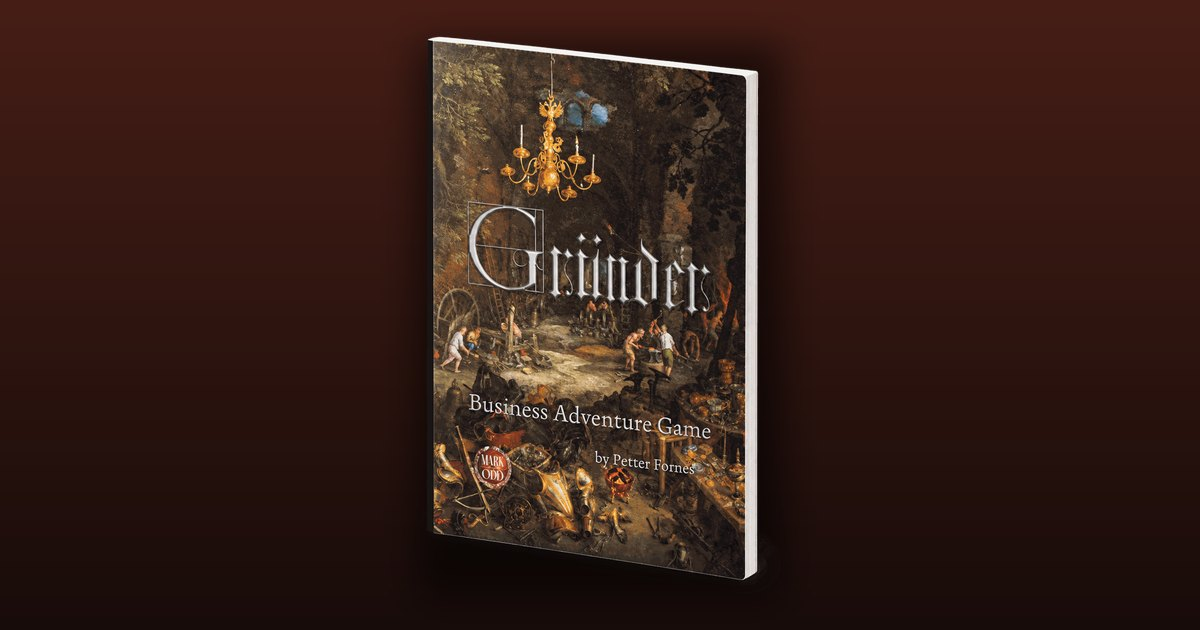
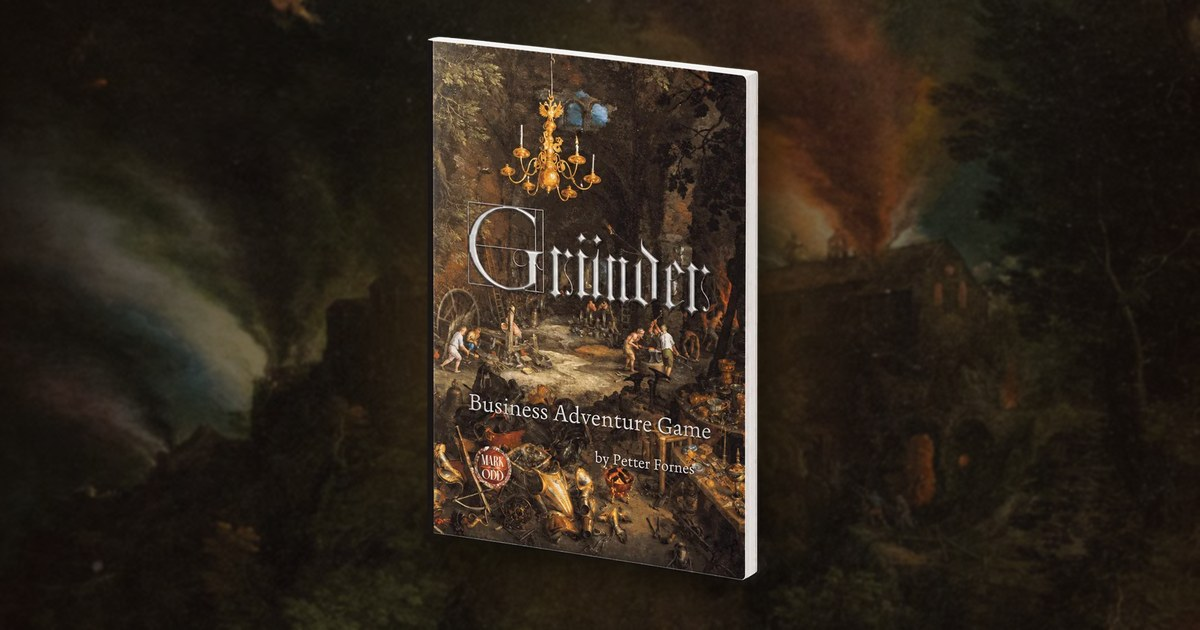
Series pages: look-inside pages from the books, Thornwall hex map section, engraving band, cleaner WM hero stack; new Gründer share image; centered homepage cards; Thornwall barcode
Claude-Session: https://claude.ai/code/session_01Go6ret7jCLgDqqds4EMTee

diff --git a/hexcrawl.html b/hexcrawl.html
@@ -92,6 +92,15 @@ p+p{margin-top:14px}
 .lead{font-size:20px}
 .split{display:grid;grid-template-columns:1.15fr .85fr;gap:56px;align-items:center}
 @media(max-width:860px){.split{grid-template-columns:1fr;gap:28px}}
+.pages{display:grid;grid-template-columns:repeat(var(--n,5),1fr);gap:18px;margin-top:32px;align-items:end}
+.pages figure{margin:0}
+.pages img{width:100%;height:auto;display:block;border-radius:3px;box-shadow:0 18px 34px rgba(0,0,0,.55);background:#fff}
+.pages figure:nth-child(odd) img{transform:rotate(-1.5deg)}
+.pages figure:nth-child(even) img{transform:rotate(1.2deg) translateY(-10px)}
+.pages figcaption{font-family:var(--sys);font-size:13px;color:var(--muted);text-align:center;margin-top:12px}
+@media(max-width:860px){.pages{grid-template-columns:repeat(3,1fr)}.pages figure:nth-child(n+4){display:none}}
+@media(max-width:520px){.pages{grid-template-columns:repeat(2,1fr)}.pages figure:nth-child(n+3){display:none}}
+.engrave{background:linear-gradient(180deg,rgba(14,20,17,.88),rgba(14,20,17,.94)),var(--bandimg) center/cover no-repeat}
 .split figure img{width:100%;max-width:380px;margin:0 auto;filter:drop-shadow(0 24px 34px rgba(0,0,0,.55))}
 .cards{display:grid;grid-template-columns:repeat(var(--cols,3),1fr);gap:20px;margin-top:34px}
 @media(max-width:960px){.cards{grid-template-columns:repeat(2,1fr)}}
@@ -147,6 +156,9 @@ footer a:hover{text-decoration:underline}
 .hexmap .hx.soon{background:#0f1a20}
 .hexmap .hx.soon b{color:var(--muted)}
 @media(max-width:560px){.hexmap{grid-template-columns:repeat(2,1fr);max-width:340px;gap:12px}.hexmap .hx:nth-child(n){transform:none}.hexmap .hx:nth-child(even){transform:translateY(40%)}.hexmap{margin-bottom:40px}}
+.mapcard{background:#fff;border-radius:8px;padding:18px 18px 12px;box-shadow:0 24px 44px rgba(0,0,0,.55);margin:0}
+.mapcard img{width:100%;height:auto;display:block;filter:none!important;max-width:none!important}
+.mapcard figcaption{font-family:var(--sys);font-size:12px;color:#5d5a52;text-align:center;margin-top:8px}
 .team{display:grid;grid-template-columns:repeat(4,1fr);gap:14px;margin-top:26px}
 @media(max-width:760px){.team{grid-template-columns:repeat(2,1fr)}}
 .team div{border-top:2px solid var(--acc);padding-top:12px}
@@ -166,7 +178,7 @@ footer a:hover{text-decoration:underline}
 <body>
 <nav><div class="in">
   <a class="logo" href="/"><img src="/img/ashborn/kr1hex.svg" alt="" width="30" height="34">KR1 PUBLISHING</a>
-  <ul><li><a href="#map">The series</a></li><li><a href="#method">The method</a></li><li><a href="#books">The books</a></li><li><a href="#faq">Questions</a></li></ul>
+  <ul><li><a href="#map">The series</a></li><li><a href="#method">The method</a></li><li><a href="#thornwall">Thornwall</a></li><li><a href="#books">The books</a></li></ul>
   <a class="btn sm" href="https://www.drivethrurpg.com/en/product/562366?affiliate_id=927841&src=site_hexcrawl" target="_blank" rel="noopener">Start with book one</a>
 </div></nav>
 
@@ -224,8 +236,25 @@ footer a:hover{text-decoration:underline}
       <div><b>Nicolai Str&oslash;m</b><span>Cover art</span></div>
     </div>
   </div>
-  <figure><img src="/img/series/hexcrawl-worldbuilding.webp" alt="Hexcrawl Worldbuilding Design Guidebook, softcover" width="487" height="760" loading="lazy"></figure>
+  <figure><img src="/img/series/inside/hc-cape.webp" alt="Line art of the cloaked wanderer from the Campaign Style Guidebook" width="520" height="780" loading="lazy" style="border-radius:4px;max-width:340px"></figure>
 </div></div></section>
+
+<section id="thornwall"><div class="in"><div class="split">
+  <div>
+    <div class="kicker">Book four</div>
+    <h2>Thirty hexes, <em>ready for Friday</em></h2>
+    <p class="lead">The Thornwall Frontier puts the series method on the table as one finished region. Thornwall sits on the edge of a frontier that is starting to pay, and something under the ground does not want to be dug up.</p>
+    <p>Each hex is six miles across, so the region runs about 40 miles east to west. A party crosses open ground in about three days, and the forests and hills take closer to five. The hexes sit in three zones: the Settled Ring around town, the Frontier, and the Deep at the edges.</p>
+    <p>Three factions pull at the region. The Miners&rsquo; Guild wants to dig deeper, the Grey Wardens want to keep people out, and the Bone Cult works out of sight. The party learns about the Cult last.</p>
+    <div class="cta-row" style="margin-top:24px"><a class="btn" href="https://www.drivethrurpg.com/en/product/584427?affiliate_id=927841&src=site_hexcrawl" target="_blank" rel="noopener">Get Thornwall</a></div>
+  </div>
+  <figure class="mapcard"><img src="/img/series/inside/thornwall-map.webp" alt="The GM's keyed hex map of the Thornwall Frontier, 30 hexes" width="1201" height="1287" loading="lazy"><figcaption>The GM&rsquo;s keyed hex map, page 5 of the book</figcaption></figure>
+</div></div></section>
+
+<section class="band" id="pages"><div class="in">
+  <div class="center"><div class="kicker">Look inside</div><h2>Art, maps <em>and pages you can run from</em></h2></div>
+  <div class="pages" style="--n:4"><figure><img src="/img/series/inside/he-forest.webp" alt="Forest illustration from the Encounter Design Guidebook" width="520" height="785" loading="lazy"><figcaption>Encounter Design: the forest</figcaption></figure><figure><img src="/img/series/inside/tw-town.webp" alt="The Thornwall town layout" width="520" height="785" loading="lazy"><figcaption>Thornwall Frontier: the home base</figcaption></figure><figure><img src="/img/series/inside/tw-stones.webp" alt="Hex 04, Fog Hollow, with standing stones" width="520" height="785" loading="lazy"><figcaption>Thornwall Frontier: Hex 04</figcaption></figure><figure><img src="/img/series/inside/tw-dungeon.webp" alt="The Bone Cult Excavation dungeon map" width="520" height="785" loading="lazy"><figcaption>Thornwall Frontier: the Bone Cult Excavation</figcaption></figure></div>
+</div></section>
 
 <section id="books"><div class="in">
   <div class="center"><div class="kicker">The books</div><h2>What is <em>in each one</em></h2></div>
@@ -242,7 +271,7 @@ footer a:hover{text-decoration:underline}
 </div></section>
 <section id="more"><div class="in">
   <div class="center"><div class="kicker">More from KR1</div><h2>Other books on the same shelf</h2></div>
-  <div class="more"><a href="/westmarches"><img src="/img/series/og-westmarches.jpg?v=2" alt="" loading="lazy" width="1200" height="630"><span>West Marches<small>Open table campaigns</small></span></a><a href="/grunder"><img src="/img/series/og-grunder.jpg" alt="" loading="lazy" width="1200" height="630"><span>Gr&uuml;nder<small>A one-shot OSR adventure</small></span></a><a href="/ashborn"><img src="/img/ashborn/og-ashborn.jpg" alt="" loading="lazy" width="1200" height="630"><span>Ashborn<small>Coming to BackerKit 2027</small></span></a></div>
+  <div class="more"><a href="/westmarches"><img src="/img/series/og-westmarches.jpg?v=2" alt="" loading="lazy" width="1200" height="630"><span>West Marches<small>Open table campaigns</small></span></a><a href="/grunder"><img src="/img/series/og-grunder.jpg?v=2" alt="" loading="lazy" width="1200" height="630"><span>Gr&uuml;nder<small>A one-shot OSR adventure</small></span></a><a href="/ashborn"><img src="/img/ashborn/og-ashborn.jpg" alt="" loading="lazy" width="1200" height="630"><span>Ashborn<small>Coming to BackerKit 2027</small></span></a></div>
 </div></section>
 <footer><div class="in">
   <div class="cred">Written by Matthijs Holter &middot; Edited by Karl Otto Kristoffersen &middot; Layout by Michael Sollien &middot; Cover art by Nicolai Str&oslash;m &middot; Published by KR1 Publishing</div>

diff --git a/westmarches.html b/westmarches.html
@@ -92,6 +92,15 @@ p+p{margin-top:14px}
 .lead{font-size:20px}
 .split{display:grid;grid-template-columns:1.15fr .85fr;gap:56px;align-items:center}
 @media(max-width:860px){.split{grid-template-columns:1fr;gap:28px}}
+.pages{display:grid;grid-template-columns:repeat(var(--n,5),1fr);gap:18px;margin-top:32px;align-items:end}
+.pages figure{margin:0}
+.pages img{width:100%;height:auto;display:block;border-radius:3px;box-shadow:0 18px 34px rgba(0,0,0,.55);background:#fff}
+.pages figure:nth-child(odd) img{transform:rotate(-1.5deg)}
+.pages figure:nth-child(even) img{transform:rotate(1.2deg) translateY(-10px)}
+.pages figcaption{font-family:var(--sys);font-size:13px;color:var(--muted);text-align:center;margin-top:12px}
+@media(max-width:860px){.pages{grid-template-columns:repeat(3,1fr)}.pages figure:nth-child(n+4){display:none}}
+@media(max-width:520px){.pages{grid-template-columns:repeat(2,1fr)}.pages figure:nth-child(n+3){display:none}}
+.engrave{background:linear-gradient(180deg,rgba(14,20,17,.88),rgba(14,20,17,.94)),var(--bandimg) center/cover no-repeat}
 .split figure img{width:100%;max-width:380px;margin:0 auto;filter:drop-shadow(0 24px 34px rgba(0,0,0,.55))}
 .cards{display:grid;grid-template-columns:repeat(var(--cols,3),1fr);gap:20px;margin-top:34px}
 @media(max-width:960px){.cards{grid-template-columns:repeat(2,1fr)}}
@@ -132,11 +141,12 @@ footer a{color:var(--acc);text-decoration:none;margin:0 10px;display:inline-bloc
 footer a:hover{text-decoration:underline}
 
 
-.fan img:nth-child(1){left:40%;width:34%;transform:rotate(-2deg);bottom:10px;z-index:1}
-.fan img:nth-child(2){left:53%;width:34%;transform:rotate(3deg);bottom:4px;z-index:2}
-.fan img:nth-child(3){left:66%;width:34%;transform:rotate(8deg);bottom:-4px;z-index:3}
-.fan img:nth-child(4){left:0;width:44%;transform:rotate(-5deg);bottom:40px;z-index:4;filter:drop-shadow(0 30px 40px rgba(0,0,0,.75))}
-@media(max-width:480px){.fan img:nth-child(4){bottom:14px}}
+.fan img{width:36%}
+.fan img:nth-child(1){left:26%;bottom:6px;z-index:1}
+.fan img:nth-child(2){left:42%;bottom:3px;z-index:2}
+.fan img:nth-child(3){left:58%;bottom:0;z-index:3}
+.fan img:nth-child(4){left:4%;bottom:30px;z-index:4;filter:drop-shadow(0 30px 40px rgba(0,0,0,.75))}
+@media(max-width:480px){.fan img:nth-child(4){bottom:16px}}
 .board{background:#efe6cf;color:#2b2416;border-radius:6px;padding:26px 26px 20px;box-shadow:0 22px 44px rgba(0,0,0,.55);transform:rotate(-1.2deg);font-family:var(--serif)}
 .board h3{font-family:var(--disp);font-size:15px;letter-spacing:.12em;text-transform:uppercase;border-bottom:2px solid #2b2416;padding-bottom:8px;margin-bottom:12px}
 .board ol{margin-left:22px;font-size:16.5px;line-height:1.5}
@@ -158,7 +168,7 @@ footer a:hover{text-decoration:underline}
 <body>
 <nav><div class="in">
   <a class="logo" href="/"><img src="/img/ashborn/kr1hex.svg" alt="" width="30" height="34">KR1 PUBLISHING</a>
-  <ul><li><a href="#what">The playstyle</a></li><li><a href="#night">How a night runs</a></li><li><a href="#books">The four books</a></li><li><a href="#faq">Questions</a></li></ul>
+  <ul><li><a href="#what">The playstyle</a></li><li><a href="#night">How a night runs</a></li><li><a href="#inside">Look inside</a></li><li><a href="#books">The four books</a></li></ul>
   <a class="btn sm" href="https://www.drivethrurpg.com/en/product/522853?affiliate_id=927841&src=site_westmarches" target="_blank" rel="noopener">Get the Guidebook</a>
 </div></nav>
 
@@ -203,7 +213,7 @@ footer a:hover{text-decoration:underline}
   <figure><img src="/img/series/wm-guidebook.webp" alt="West Marches Campaign Playstyle Guidebook, softcover" width="520" height="760" loading="lazy"></figure>
 </div></div></section>
 
-<section class="band" id="night"><div class="in"><div class="split">
+<section class="band engrave" id="night" style="--bandimg:url(/img/series/inside/wm-crowd-band.webp)"><div class="in"><div class="split">
   <div>
     <div class="kicker">How a night runs</div>
     <h2>How a session <em>usually runs</em></h2>
@@ -225,6 +235,12 @@ footer a:hover{text-decoration:underline}
   </div>
 </div></div></section>
 
+<section id="inside"><div class="in">
+  <div class="center"><div class="kicker">Look inside</div><h2>Pages <em>made to be written in</em></h2>
+  <p class="lead narrow">The Guidebook explains the method. The three working books give you pages to fill in at the table, between sessions and after every expedition.</p></div>
+  <div class="pages" style="--n:5"><figure><img src="/img/series/inside/wm-guide.webp" alt="A page from the West Marches Guidebook" width="520" height="785" loading="lazy"><figcaption>Guidebook: the players drive the game</figcaption></figure><figure><img src="/img/series/inside/wm-gm-world.webp" alt="The World page in the GM Workbook" width="520" height="785" loading="lazy"><figcaption>GM Workbook: sketch the world</figcaption></figure><figure><img src="/img/series/inside/wm-gm-rumors.webp" alt="The Rumors page in the GM Workbook" width="520" height="785" loading="lazy"><figcaption>GM Workbook: track every rumor</figcaption></figure><figure><img src="/img/series/inside/wm-ledger-graveyard.webp" alt="The Graveyard page in the Party Ledger" width="520" height="785" loading="lazy"><figcaption>Party Ledger: the graveyard</figcaption></figure><figure><img src="/img/series/inside/wm-journal.webp" alt="The Identity page in the Player Journal" width="520" height="785" loading="lazy"><figcaption>Player Journal: who you are</figcaption></figure></div>
+</div></section>
+
 <section id="books"><div class="in">
   <div class="center"><div class="kicker">The four books</div><h2>One book <em>for every seat at the table</em></h2>
   <p class="lead narrow">The Guidebook teaches the method. The other three hold the campaign together while it runs, one for the GM, one for the group and one for each player.</p></div>
@@ -242,7 +258,7 @@ footer a:hover{text-decoration:underline}
 </div></section>
 <section id="more"><div class="in">
   <div class="center"><div class="kicker">More from KR1</div><h2>Other books on the same shelf</h2></div>
-  <div class="more"><a href="/hexcrawl"><img src="/img/series/og-hexcrawl.jpg?v=3" alt="" loading="lazy" width="1200" height="630"><span>Hexcrawl<small>Wilderness exploration</small></span></a><a href="/grunder"><img src="/img/series/og-grunder.jpg" alt="" loading="lazy" width="1200" height="630"><span>Gr&uuml;nder<small>A one-shot OSR adventure</small></span></a><a href="/ashborn"><img src="/img/ashborn/og-ashborn.jpg" alt="" loading="lazy" width="1200" height="630"><span>Ashborn<small>Coming to BackerKit 2027</small></span></a></div>
+  <div class="more"><a href="/hexcrawl"><img src="/img/series/og-hexcrawl.jpg?v=3" alt="" loading="lazy" width="1200" height="630"><span>Hexcrawl<small>Wilderness exploration</small></span></a><a href="/grunder"><img src="/img/series/og-grunder.jpg?v=2" alt="" loading="lazy" width="1200" height="630"><span>Gr&uuml;nder<small>A one-shot OSR adventure</small></span></a><a href="/ashborn"><img src="/img/ashborn/og-ashborn.jpg" alt="" loading="lazy" width="1200" height="630"><span>Ashborn<small>Coming to BackerKit 2027</small></span></a></div>
 </div></section>
 <footer><div class="in">
   <div class="cred">Written and designed by Karl Otto Kristoffersen &middot; Published by KR1 Publishing</div>

diff --git a/index.html b/index.html
@@ -211,8 +211,9 @@
   }
 
   /* Prosjekter */
-  .proj{display:grid;grid-template-columns:repeat(4,1fr);gap:18px;margin-top:28px}
-  @media(max-width:1100px){.proj{grid-template-columns:repeat(2,1fr)}}
+  .proj{display:flex;flex-wrap:wrap;justify-content:center;gap:18px;margin-top:28px}
+  .proj>a{flex:0 1 calc(25% - 14px)}
+  @media(max-width:1100px){.proj>a{flex-basis:calc(50% - 9px)}}
   .proj a{display:flex;flex-direction:column;text-decoration:none;color:var(--ink);background:var(--card);border:1px solid var(--line);border-radius:14px;overflow:hidden;transition:transform .15s,box-shadow .15s}
   .proj a:hover{transform:translateY(-3px);box-shadow:0 14px 30px rgba(30,28,24,.14)}
   .proj img{width:100%;aspect-ratio:1200/630;object-fit:cover;display:block;background:var(--dark)}
@@ -222,7 +223,7 @@
   .proj .pjb p{font-size:15.5px;color:var(--muted);margin:0;line-height:1.45;font-weight:400;font-family:inherit;text-align:left}
   .proj .pjb p{text-wrap:pretty}
   .proj .go{display:inline-block;margin-top:auto;padding-top:12px;font-family:system-ui,sans-serif;font-size:13.5px;font-weight:700;color:var(--gold-dark)}
-  @media(max-width:860px){.proj{grid-template-columns:1fr;max-width:520px;margin-left:auto;margin-right:auto}}
+  @media(max-width:860px){.proj{max-width:520px;margin-left:auto;margin-right:auto}.proj>a{flex-basis:100%}}
 @media(max-width:640px){.proofbar span{font-size:11.5px}.card .badge,.pill,.orow .bdg{font-size:11px}}
 </style>
 </head>
@@ -523,7 +524,7 @@
     <div class="proj">
       <a href="/westmarches"><img src="/img/series/og-westmarches.jpg?v=2" alt="The four West Marches books" loading="lazy"><div class="pjb"><div class="pk">Four books &middot; 8,200+ sold</div><h3>West Marches</h3><p>Run one open campaign for more players than fit at your table. The Guidebook, the GM Workbook, the Party Ledger and the Player Journal.</p><span class="go">See West Marches &rarr;</span></div></a>
       <a href="/hexcrawl"><img src="/img/series/og-hexcrawl.jpg?v=3" alt="The four Hexcrawl books by Matthijs Holter" loading="lazy"><div class="pjb"><div class="pk">Four books &middot; 6,900+ sold</div><h3>Hexcrawl</h3><p>Wilderness campaigns where the journey is the adventure. Campaign Style, Encounter Design, Worldbuilding Design and The Thornwall Frontier.</p><span class="go">See Hexcrawl &rarr;</span></div></a>
-      <a href="/grunder"><img src="/img/series/og-grunder.jpg" alt="Gr&uuml;nder: Business Adventure Game" loading="lazy"><div class="pjb"><div class="pk">OSR one-shot</div><h3>Gr&uuml;nder</h3><p>Grab a serial killer's hoard before thirty soldiers do. Whatever you carry out is your start-up capital. Into the Odd rules.</p><span class="go">See Gr&uuml;nder &rarr;</span></div></a>
+      <a href="/grunder"><img src="/img/series/og-grunder.jpg?v=2" alt="Gr&uuml;nder: Business Adventure Game" loading="lazy"><div class="pjb"><div class="pk">OSR one-shot</div><h3>Gr&uuml;nder</h3><p>Grab a serial killer's hoard before thirty soldiers do. Whatever you carry out is your start-up capital. Into the Odd rules.</p><span class="go">See Gr&uuml;nder &rarr;</span></div></a>
       <a href="/tale"><img src="/img/tale/og-tale.jpg" alt="Tale, the role-playing game" loading="lazy"><div class="pjb"><div class="pk">PbtA fantasy</div><h3>Tale</h3><p>Young graduates fresh out of the Academy, leaving home to prove themselves. A Powered by the Apocalypse fantasy RPG.</p><span class="go">See Tale &rarr;</span></div></a>
     </div>
   </div>

diff --git a/grunder.html b/grunder.html
@@ -10,7 +10,7 @@
 <meta property="og:site_name" content="KR1 Publishing">
 <meta property="og:title" content="Gründer: a one-shot OSR adventure where the loot decides who starts a company">
 <meta property="og:description" content="Gründer is a one-shot OSR adventure game by Petter Fornes, on Into the Odd rules. Reach a serial killer's hoard before thirty soldiers do, then one roll decides if your company survives. 3 to 6 players, one evening.">
-<meta property="og:image" content="https://www.kr1publishing.com/img/series/og-grunder.jpg">
+<meta property="og:image" content="https://www.kr1publishing.com/img/series/og-grunder.jpg?v=2">
 <meta property="og:image:width" content="1200">
 <meta property="og:image:height" content="630">
 <meta property="og:image:alt" content="Gründer: Business Adventure Game by Petter Fornes">
@@ -18,7 +18,7 @@
 <meta name="twitter:card" content="summary_large_image">
 <meta name="twitter:title" content="Gründer: a one-shot OSR adventure where the loot decides who starts a company">
 <meta name="twitter:description" content="Gründer is a one-shot OSR adventure game by Petter Fornes, on Into the Odd rules. Reach a serial killer's hoard before thirty soldiers do, then one roll decides if your company survives. 3 to 6 players, one evening.">
-<meta name="twitter:image" content="https://www.kr1publishing.com/img/series/og-grunder.jpg">
+<meta name="twitter:image" content="https://www.kr1publishing.com/img/series/og-grunder.jpg?v=2">
 <meta name="theme-color" content="#170c09">
 <link rel="icon" href="/img/ashborn/kr1hex.png">
 <link rel="preload" as="image" href="/img/series/grunder.webp" type="image/webp">
@@ -92,6 +92,15 @@ p+p{margin-top:14px}
 .lead{font-size:20px}
 .split{display:grid;grid-template-columns:1.15fr .85fr;gap:56px;align-items:center}
 @media(max-width:860px){.split{grid-template-columns:1fr;gap:28px}}
+.pages{display:grid;grid-template-columns:repeat(var(--n,5),1fr);gap:18px;margin-top:32px;align-items:end}
+.pages figure{margin:0}
+.pages img{width:100%;height:auto;display:block;border-radius:3px;box-shadow:0 18px 34px rgba(0,0,0,.55);background:#fff}
+.pages figure:nth-child(odd) img{transform:rotate(-1.5deg)}
+.pages figure:nth-child(even) img{transform:rotate(1.2deg) translateY(-10px)}
+.pages figcaption{font-family:var(--sys);font-size:13px;color:var(--muted);text-align:center;margin-top:12px}
+@media(max-width:860px){.pages{grid-template-columns:repeat(3,1fr)}.pages figure:nth-child(n+4){display:none}}
+@media(max-width:520px){.pages{grid-template-columns:repeat(2,1fr)}.pages figure:nth-child(n+3){display:none}}
+.engrave{background:linear-gradient(180deg,rgba(14,20,17,.88),rgba(14,20,17,.94)),var(--bandimg) center/cover no-repeat}
 .split figure img{width:100%;max-width:380px;margin:0 auto;filter:drop-shadow(0 24px 34px rgba(0,0,0,.55))}
 .cards{display:grid;grid-template-columns:repeat(var(--cols,3),1fr);gap:20px;margin-top:34px}
 @media(max-width:960px){.cards{grid-template-columns:repeat(2,1fr)}}

diff --git a/assets.html b/assets.html
@@ -563,7 +563,7 @@ Published by KR1 Publishing">Copy product text</button>
       <div class="tag">A finished frontier, ready for session one.</div>
       <p class="desc">Book four. A complete 30-hex starting region around the frontier town of Thornwall, with three factions, two one-page dungeons and 10 to 15 sessions of play. New in print, November 2026, 450+ copies sold as PDF.</p>
       <div class="pills"><span class="pill badge">Ready to run</span></div>
-      <div class="meta"><span>Softcover, B&amp;W</span><span><b>$20</b> / 199 kr</span><span>Sold 450+</span></div>
+      <div class="meta"><span>Barcode <b>2370022648039</b></span><span>Softcover, B&amp;W</span><span><b>$20</b> / 199 kr</span><span>Sold 450+</span></div>
       <details class="fulltxt"><summary>Show full product text ›</summary><pre>Prep in an evening. Run it on Friday.
 
 The Thornwall Frontier is a complete 30-hex starting region for hexcrawl campaigns, built around the frontier town of Thornwall. It is the fourth book in Matthijs Holter&#x27;s Hexcrawl series, and it grows the mud-brick town from the Campaign Style Guidebook&#x27;s worked example into a full region.
@@ -574,7 +574,7 @@ The book is system-neutral and has no stat blocks. Threats are described in plai
 
 Inside you&#x27;ll find:
 - A home base with NPCs, shops and a rumor board
-- Three factions: the Miners&#x27; Guild, the Greywarden and the Bone Cult
+- Three factions: the Miners&#x27; Guild, the Grey Wardens and the Bone Cult
 - 30 keyed hexes across three zones: the Settled Ring, the Frontier and the Deep
 - Two one-page dungeons, the Iron Tower and the Bone Cult Excavation
 - Rumors and quest lines to get the party moving
@@ -598,7 +598,7 @@ The book is system-neutral and has no stat blocks. Threats are described in plai
 
 Inside you&#x27;ll find:
 - A home base with NPCs, shops and a rumor board
-- Three factions: the Miners&#x27; Guild, the Greywarden and the Bone Cult
+- Three factions: the Miners&#x27; Guild, the Grey Wardens and the Bone Cult
 - 30 keyed hexes across three zones: the Settled Ring, the Frontier and the Deep
 - Two one-page dungeons, the Iron Tower and the Bone Cult Excavation
 - Rumors and quest lines to get the party moving

diff --git a/ressurser.html b/ressurser.html
@@ -563,7 +563,7 @@ Utgitt av KR1 Publishing">Kopier produkttekst</button>
       <div class="tag">Et ferdig grenseland, klart til første økt.</div>
       <p class="desc">Bok fire. En komplett startregion på 30 hexer rundt grensebyen Thornwall, med tre fraksjoner, to dungeons og 10 til 15 økter med spill. Ny i trykk i november 2026, over 450 solgte som PDF.</p>
       <div class="pills"><span class="pill badge">Klar til spill</span></div>
-      <div class="meta"><span>Softcover, sort-hvitt</span><span><b>$20</b> / 199 kr</span><span>Solgt 450+</span></div>
+      <div class="meta"><span>Strekkode <b>2370022648039</b></span><span>Softcover, sort-hvitt</span><span><b>$20</b> / 199 kr</span><span>Solgt 450+</span></div>
       <details class="fulltxt"><summary>Vis hele produktteksten ›</summary><pre>Forbered på en kveld. Spill på fredag.
 
 The Thornwall Frontier er en komplett startregion på 30 hexer for hexcrawl-kampanjer, bygget rundt grensebyen Thornwall. Den er den fjerde boken i Matthijs Holters Hexcrawl-serie, og den gjør leirsteinsbyen fra eksempelet i Campaign Style Guidebook om til en hel region.
@@ -574,7 +574,7 @@ Boken er systemuavhengig og har ingen statblokker. Trusler beskrives med vanlige
 
 Innhold:
 - En hjemmebase med NPC-er, butikker og en ryktetavle
-- Tre fraksjoner: Miners&#x27; Guild, Greywarden og Bone Cult
+- Tre fraksjoner: Miners&#x27; Guild, Grey Wardens og Bone Cult
 - 30 nøklede hexer i tre soner: Settled Ring, Frontier og Deep
 - To dungeons på én side hver, Iron Tower og Bone Cult Excavation
 - Rykter og oppdragslinjer som setter gruppen i gang
@@ -598,7 +598,7 @@ Boken er systemuavhengig og har ingen statblokker. Trusler beskrives med vanlige
 
 Innhold:
 - En hjemmebase med NPC-er, butikker og en ryktetavle
-- Tre fraksjoner: Miners&#x27; Guild, Greywarden og Bone Cult
+- Tre fraksjoner: Miners&#x27; Guild, Grey Wardens og Bone Cult
 - 30 nøklede hexer i tre soner: Settled Ring, Frontier og Deep
 - To dungeons på én side hver, Iron Tower og Bone Cult Excavation
 - Rykter og oppdragslinjer som setter gruppen i gang
